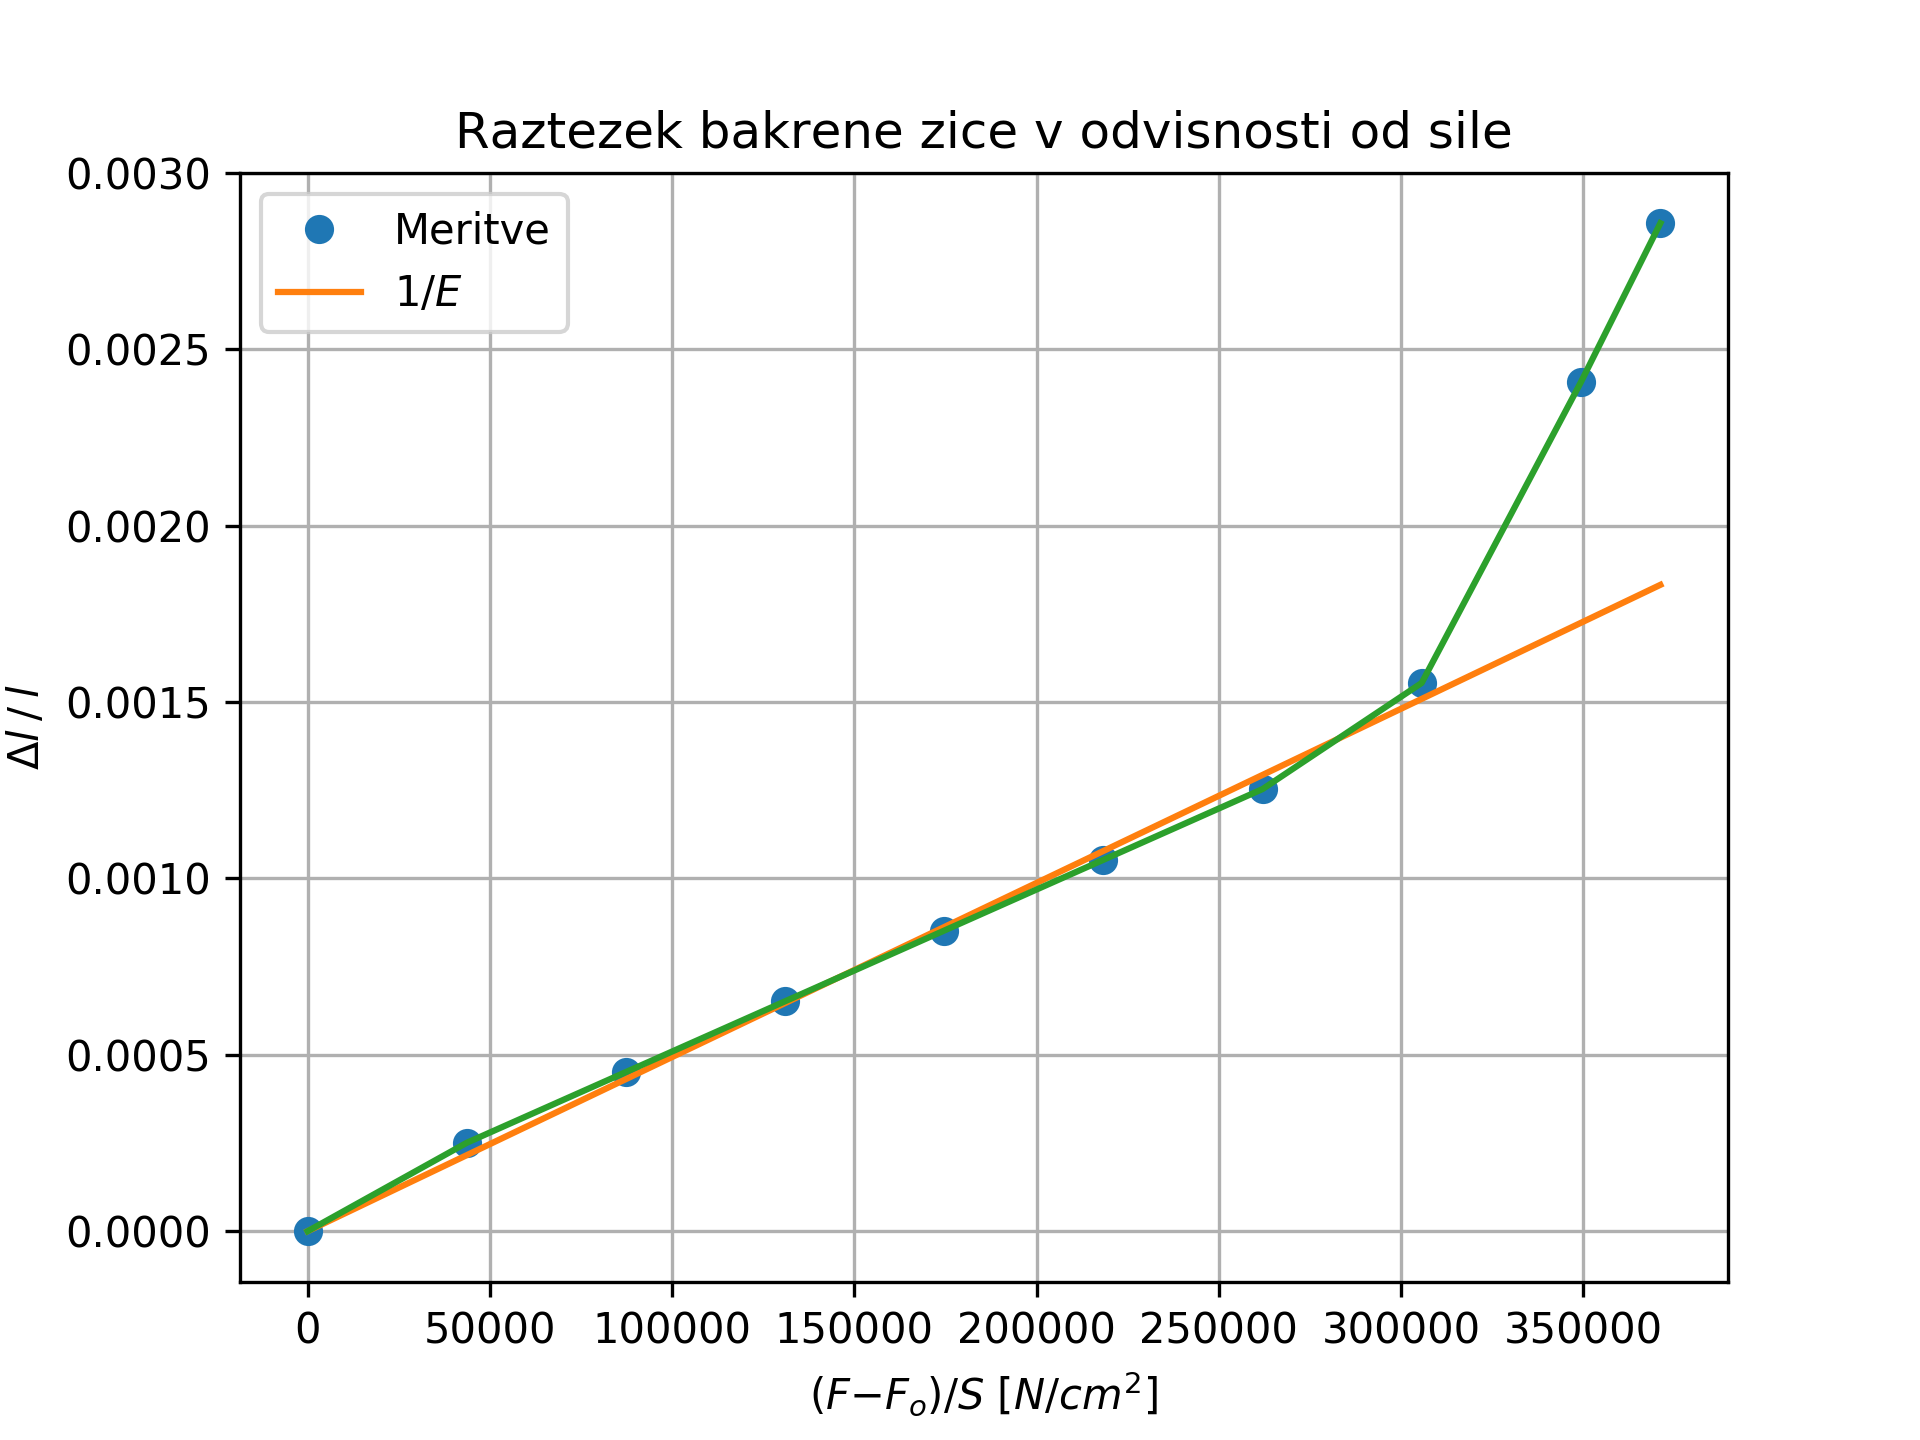
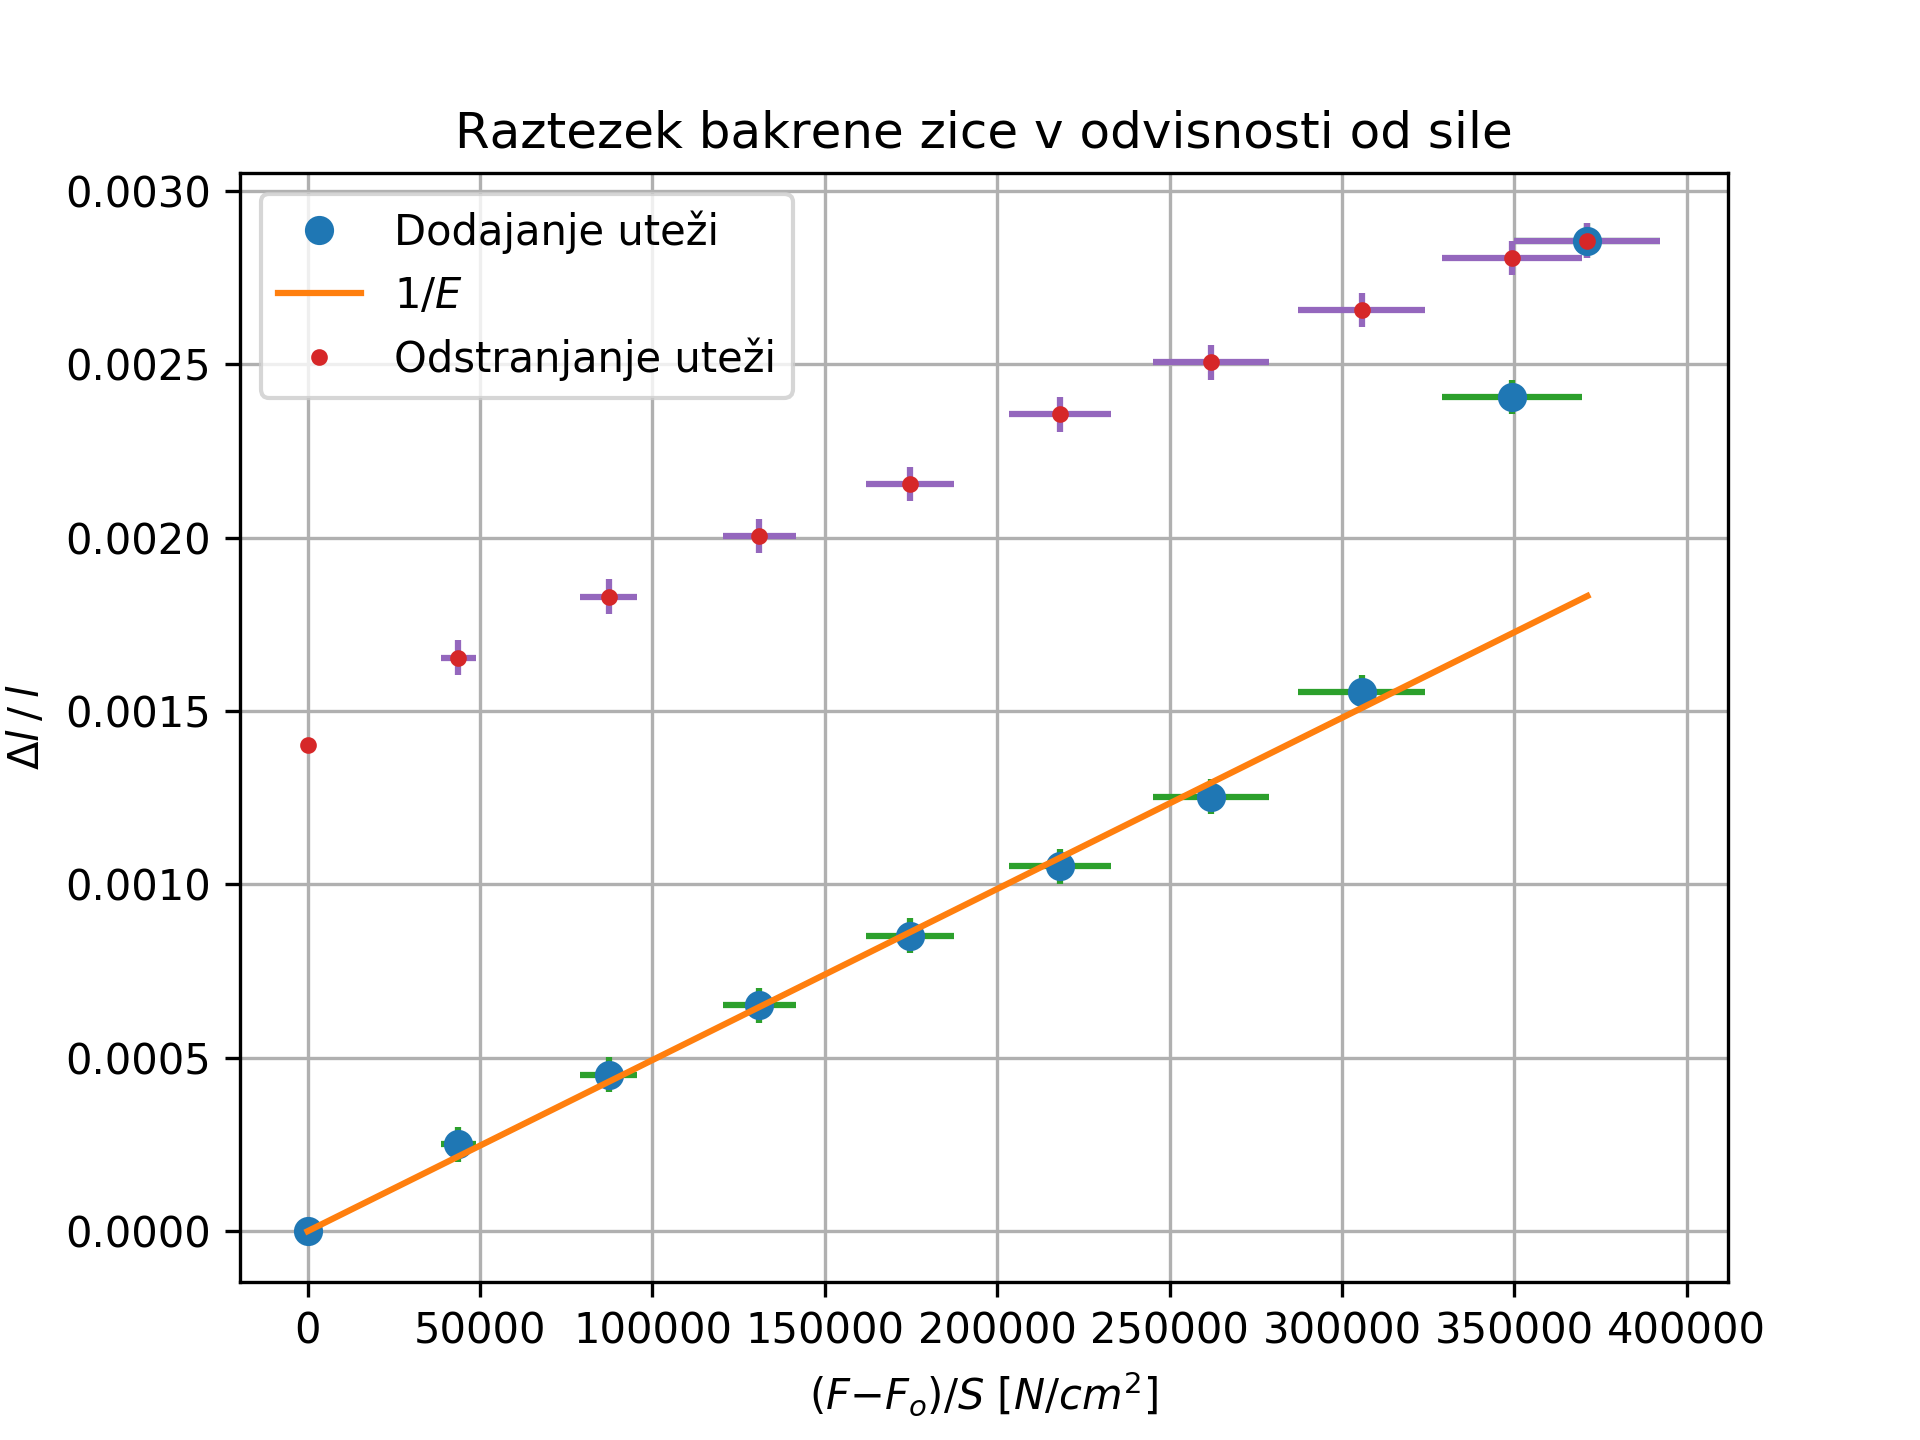
graf

diff --git a/vaja20/grafi.py b/vaja20/grafi.py
@@ -11,64 +11,100 @@ lege_dodajanje = [12.17, 12.22, 12.26, 12.30,
 lege_odstranjanje = [12.45, 12.50, 12.535, 12.57,
                      12.60, 12.64, 12.67, 12.70, 12.73, 12.74]  # cm
 
-# pi*(2r/2)^2
 # 2r podan v mikrom
-presek = ((54/2/(10**6))**2)*math.pi  # m
+radij = 54
 
 dolzina = 1.995  # m
 
 
-def calc_delta(lege):
-    new_list = []
-    for i in range(len(lege)):
-        if i == 0:
-            new_list.append(0)
-        else:
-            new_list.append(lege[i]-lege[0])
-    print(new_list)
-    return(new_list)  # cm
+def draw_graph(mase, lege_dodajanje, radij, dolzina, lege_odstranjanje=[]):
+
+    # pi*(2r/2)^2
+    presek = ((radij/2/(10**6))**2)*math.pi  # m
+
+    def calc_delta(lege, reverse=False):
+        new_list = []
+        for i in range(len(lege)):
+            if reverse:
+                new_list.append(lege[i]-lege[-1])
+            else:
+                new_list.append(lege[i]-lege[0])
+        return(new_list)  # cm
+
+    # N / cm^2 --> /100 je za g v N, /10000 je za m^2 v cm^2
+    x = [(x-mase[0])/100/presek/10000 for x in mase]
+
+    # v cm
+    delte_y = calc_delta(lege_dodajanje)
+
+    # /100 cm -> m
+    y = [(y/100/dolzina) for y in delte_y]  # brez enote
+
+    y_reverse = [y[-1]+(rev/100/dolzina)
+                 for rev in calc_delta(lege_odstranjanje, reverse=True)]
+
+    print(y_reverse)
+    # error
+
+    def calc_error_y(delte, lege_y):
+        abs_y = []
+        for i, lega in zip(delte, lege_y):
+            if i == 0:
+                abs_y.append(0)
+            else:
+                print(0.005/i)
+                abs_y.append((0.01/i)*lega)
+        return abs_y
+
+    def calc_error_x(mass, radius, x_axis):
+        return [(20/x+2*1/radius)*abscisa for x, abscisa in zip(mass, x_axis)]
+
+    napake_y = calc_error_y(delte_y, y)
+    napake_x = calc_error_x(mase, radij, x)
+
+    # find best fit
+
+    def fit_func(x, a):
+        return a*x
+
+    params = curve_fit(fit_func, x[:(len(x)-2)], y[:(len(y)-2)])
+    a = params[0]
+
+    x_fit = np.linspace(x[0], x[-1], 100)
+
+    y_fit = fit_func(x_fit, a)
+
+    # /fit
+
+    print("Calculated E is:", '%.3g' % int(a**-1), 'N/cm^2')
+
+    plt.plot(x, y, 'o', label='Dodajanje uteži')
+    plt.plot(x_fit, y_fit, label=r'$1/E$')
+    plt.errorbar(x, y, xerr=napake_x, yerr=napake_y, fmt='none')
+
+    if lege_odstranjanje:
+        plt.plot(x, y_reverse, '.', label='Odstranjanje uteži')
+        plt.errorbar(x, y_reverse, xerr=napake_x, yerr=napake_y, fmt='none')
+
+        def fit_reverse(x, a, b):
+            return a*x+b
+
+        naklon_reverse = curve_fit(fit_reverse, x, y_reverse)[0][0]
+        print(naklon_reverse)
+        print("Calculated E for reverse is:", '%.3g' %
+              int(naklon_reverse**-1), 'N/cm^2')
+
+    plt.title('Raztezek bakrene zice v odvisnosti od sile')
+    plt.xlabel(r'$(F −F_o)/S$ $[N/cm^2]$')
+    plt.ylabel(r'$\Delta l \: / \: l$')
+
+    plt.grid(True)
+
+    plt.legend()
+    plt.savefig('vaja20/raztezek_baker', dpi=300)
+    print('saved')
+    plt.show()
 
 
-# N / cm^2 --> /100 je za g v N, /10000 je za m^2 v cm^2
-x = [(x-mase[0])/100/presek/10000 for x in mase]
-
-delte_y = calc_delta(lege_dodajanje)
-
-y = [(y/100/dolzina) for y in delte_y]  # brez enote
-
-# error
-
-
-# find best fit
-
-
-def fit_func(x, a):
-    return a*x
-
-
-params = curve_fit(fit_func, x[:(len(x)-2)], y[:(len(y)-2)])
-[a] = params[0]
-
-x_fit = np.linspace(x[0], x[len(x)-1], 100)
-
-y_fit = fit_func(x_fit, a)
-
-
-# /fit
-
-print("Calculated E is:", '%.3g' % int(a**-1), 'N/cm^2')
-
-
-plt.plot(x, y, 'o', label='Meritve')
-plt.plot(x_fit, y_fit, label=r'$1/E$')
-plt.errorbar(x, y)
-
-plt.title('Raztezek bakrene zice v odvisnosti od sile')
-plt.xlabel(r'$(F −F_o)/S$ $[N/cm^2]$')
-plt.ylabel(r'$\Delta l \: / \: l$')
-
-plt.grid(True)
-
-plt.legend()
-plt.savefig('raztezek_baker', dpi=300)
-plt.show()
+draw_graph(mase, lege_dodajanje, radij, dolzina,
+           lege_odstranjanje=lege_odstranjanje)
